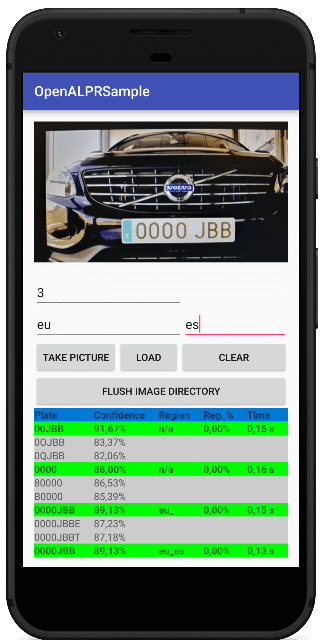
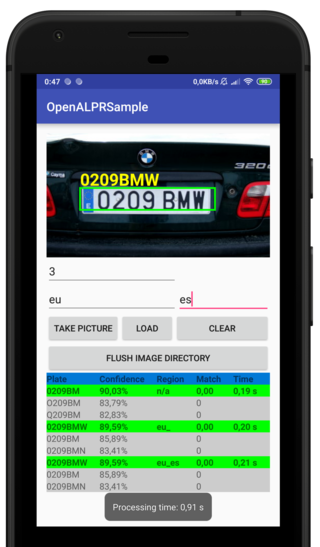
Minor improvements (recognition rectangle, processing time count, ...)

diff --git a/Sample/OpenALPRSample/app/src/main/java/com/sandro/openalprsample/MainActivity.java b/Sample/OpenALPRSample/app/src/main/java/com/sandro/openalprsample/MainActivity.java
@@ -6,9 +6,16 @@ import android.app.ProgressDialog;
 import android.content.Context;
 import android.content.Intent;
 import android.content.pm.PackageManager;
+import android.graphics.Bitmap;
 import android.graphics.BitmapFactory;
+import android.graphics.Canvas;
 import android.graphics.Color;
+import android.graphics.Paint;
+import android.graphics.Rect;
+import android.graphics.RectF;
 import android.graphics.Typeface;
+import android.graphics.drawable.BitmapDrawable;
+import android.graphics.drawable.Drawable;
 import android.net.Uri;
 import android.os.AsyncTask;
 import android.os.Bundle;
@@ -17,6 +24,7 @@ import android.provider.MediaStore;
 import android.support.v4.app.ActivityCompat;
 import android.support.v4.content.ContextCompat;
 import android.support.v7.app.AppCompatActivity;
+import android.transition.Explode;
 import android.util.Log;
 import android.view.View;
 import android.view.ViewGroup;
@@ -33,6 +41,7 @@ import com.squareup.picasso.Picasso;
 
 import org.openalpr.OpenALPR;
 import org.openalpr.model.Candidate;
+import org.openalpr.model.Coordinate;
 import org.openalpr.model.Result;
 import org.openalpr.model.Results;
 import org.openalpr.model.ResultsError;
@@ -59,7 +68,6 @@ public class MainActivity extends AppCompatActivity {
 
     private Context appCtx;
     private ImageView imageView;
-    private TextView resultTextView;
     private EditText txtCountry;
     private EditText txtRegion;
     private EditText txtCandidatesNum;
@@ -69,6 +77,7 @@ public class MainActivity extends AppCompatActivity {
     protected void onCreate(Bundle savedInstanceState) {
         super.onCreate(savedInstanceState);
         setContentView(R.layout.activity_main);
+        checkPermission();
 
         appCtx = this;
         ANDROID_DATA_DIR = this.getApplicationInfo().dataDir;
@@ -78,15 +87,12 @@ public class MainActivity extends AppCompatActivity {
         txtRegion = (EditText) findViewById(R.id.txtRegion);
 
         resultTable = (TableLayout) findViewById(R.id.resultTable);
-        resultTextView = (TextView) findViewById(R.id.textView);
         imageView = (ImageView) findViewById(R.id.imageView);
-
-        resultTextView.setText("Supported countries: empty, eu, us");
 
         findViewById(R.id.btnTakePicture).setOnClickListener(new View.OnClickListener() {
             @Override
             public void onClick(View view) {
-                checkPermission();
+                takePicture();
             }
         });
 
@@ -100,8 +106,6 @@ public class MainActivity extends AppCompatActivity {
         findViewById(R.id.btnClear).setOnClickListener(new View.OnClickListener() {
             @Override
             public void onClick(View view) {
-                resultTextView.setText("");
-                imageView.setVisibility(View.GONE);
                 resultTable.setVisibility(View.GONE);
                 int count = resultTable.getChildCount();
                 for (int i = 1; i < count; i++) {
@@ -132,26 +136,32 @@ public class MainActivity extends AppCompatActivity {
     @Override
     protected void onActivityResult(int requestCode, int resultCode, Intent data) {
         if ((requestCode == REQUEST_IMAGE || requestCode == REQUEST_FILE) && resultCode == Activity.RESULT_OK) {
+            final long startTime = System.currentTimeMillis();
+            final long[] endTime = new long[1];
             final ProgressDialog progress = ProgressDialog.show(this, "Loading", "Parsing result...", true);
             final String openAlprConfFile = ANDROID_DATA_DIR + File.separatorChar + "runtime_data" + File.separatorChar + "openalpr.conf";
             BitmapFactory.Options options = new BitmapFactory.Options();
             options.inSampleSize = 10;
 
             if (requestCode == REQUEST_FILE) {
-                if (data != null) {
+                if (data != null && data.getData() != null) {
                     String path = Environment.getExternalStorageDirectory().getPath() + "/" + data.getData().getLastPathSegment().split(":")[1];
                     imageFile = new File(path);
+                    Picasso.with(MainActivity.this).invalidate(imageFile);
                 }
             }
 
-            // Picasso requires permission.WRITE_EXTERNAL_STORAGE
-            Picasso.with(MainActivity.this).load(imageFile).fit().centerCrop().into(imageView);
-            resultTextView.setText("Processing");
+            final int[] x1 = { 0 };
+            final int[] x2 = { 0 };
+            final int[] y1 = { 0 };
+            final int[] y2 = { 0 };
+            final String[] plate = {""};
 
             AsyncTask.execute(new Runnable() {
+
                 @Override
                 public void run() {
-                    resultTable.setVisibility(View.VISIBLE);
+
                     int candidates = txtCandidatesNum.getText().toString().isEmpty()? 5 : Integer.parseInt((txtCandidatesNum.getText().toString()));
                     String result = OpenALPR.Factory.create(MainActivity.this, ANDROID_DATA_DIR).recognizeWithCountryRegionNConfig(txtCountry.getText().toString(), txtRegion.getText().toString(), imageFile.getAbsolutePath(), openAlprConfFile, candidates);
                     Log.d("OPEN ALPR", result);
@@ -161,75 +171,96 @@ public class MainActivity extends AppCompatActivity {
                         runOnUiThread(new Runnable() {
                             @Override
                             public void run() {
-                                imageView.setVisibility(View.VISIBLE);
+                                resultTable.setVisibility(View.VISIBLE);
                                 if (results == null || results.getResults() == null || results.getResults().size() == 0) {
                                     Toast.makeText(MainActivity.this, "It was not possible to detect the licence plate.", Toast.LENGTH_LONG).show();
-                                    resultTextView.setText("It was not possible to detect the licence plate.");
                                 } else {
+                                    endTime[0] = System.currentTimeMillis();
                                     TableLayout.LayoutParams rowLayoutParams = new TableLayout.LayoutParams(TableLayout.LayoutParams.FILL_PARENT, TableLayout.LayoutParams.WRAP_CONTENT);
                                     TableRow.LayoutParams cellLayoutParams = new TableRow.LayoutParams(TableRow.LayoutParams.WRAP_CONTENT, TableRow.LayoutParams.WRAP_CONTENT);
 
-                                    for(Result loResult : results.getResults()) {
+                                    List<Result> resultsList = results.getResults();
+                                    for(int i = 0; i < resultsList.size(); ++i) {
+                                        Result result = resultsList.get(i);
+
+                                        if (i == 0) { // save rectangle coordinates and plate of best result
+                                            x1[0] = result.getCoordinates().get(0).getX();
+                                            y1[0] = result.getCoordinates().get(0).getY();
+                                            x2[0] = result.getCoordinates().get(2).getX();
+                                            y2[0] = result.getCoordinates().get(2).getY();
+                                            plate[0] = result.getPlate();
+                                        }
+
                                         TableRow tableRow = new TableRow(appCtx);
                                         tableRow.setLayoutParams(rowLayoutParams);
 
-                                        if (loResult.getConfidence() < 60)
+                                        if (result.getConfidence() < 60)
                                             tableRow.setBackgroundColor(Color.RED);
-                                        else if (loResult.getConfidence() < 85)
+                                        else if (result.getConfidence() < 85)
                                             tableRow.setBackgroundColor(Color.YELLOW);
-                                        else if (loResult.getConfidence() >= 85)
+                                        else if (result.getConfidence() >= 85)
                                             tableRow.setBackgroundColor(Color.GREEN);
 
                                         TextView cellValue = new TextView(appCtx);
                                         cellValue.setTypeface(null, Typeface.BOLD);
-                                        cellValue.setText(loResult.getPlate());
+                                        cellValue.setText(result.getPlate());
                                         cellValue.setLayoutParams(cellLayoutParams);
                                         tableRow.addView(cellValue);
 
                                         cellValue = new TextView(appCtx);
                                         cellValue.setTypeface(null, Typeface.BOLD);
-                                        cellValue.setText(String.format("%.2f", loResult.getConfidence())+"%");
+                                        cellValue.setText(String.format("%.2f", result.getConfidence())+"%");
+                                        cellValue.setLayoutParams(cellLayoutParams);
+                                        tableRow.addView(cellValue);
+
+                                        String region = txtCountry.getText().toString()+"_"+txtRegion.getText().toString();
+                                        cellValue = new TextView(appCtx);
+                                        cellValue.setTypeface(null, Typeface.BOLD);
+                                        cellValue.setText(region.length() == 1? "n/a" : region);
                                         cellValue.setLayoutParams(cellLayoutParams);
                                         tableRow.addView(cellValue);
 
                                         cellValue = new TextView(appCtx);
                                         cellValue.setTypeface(null, Typeface.BOLD);
-                                        cellValue.setText(txtCountry.getText().toString()+"-"+txtRegion.getText().toString());
+                                        cellValue.setText(String.format("%.2f", result.getMatchesTemplate()));
                                         cellValue.setLayoutParams(cellLayoutParams);
                                         tableRow.addView(cellValue);
 
                                         cellValue = new TextView(appCtx);
                                         cellValue.setTypeface(null, Typeface.BOLD);
-                                        cellValue.setText(String.format("%.2f", loResult.getRegionConfidence())+"%");
-                                        cellValue.setLayoutParams(cellLayoutParams);
-                                        tableRow.addView(cellValue);
-
-                                        cellValue = new TextView(appCtx);
-                                        cellValue.setTypeface(null, Typeface.BOLD);
-                                        cellValue.setText(String.format("%.2f", ((loResult.getProcessingTimeMs() / 1000.0) % 60)) + " s");
+                                        cellValue.setText(String.format("%.2f", ((result.getProcessingTimeMs() / 1000.0) % 60)) + " s");
                                         cellValue.setLayoutParams(cellLayoutParams);
                                         tableRow.addView(cellValue);
 
                                         resultTable.addView(tableRow);
-                                        for (Candidate loCandidate : loResult.getCandidates()) {
+                                        List<Candidate> candidates = result.getCandidates();
+                                        for (int j = 1; j < candidates.size(); ++j) {
+                                            Candidate candidate = candidates.get(j);
                                             tableRow = new TableRow(appCtx);
                                             tableRow.setLayoutParams(rowLayoutParams);
                                             tableRow.setBackgroundColor(Color.LTGRAY);
 
                                             cellValue = new TextView(appCtx);
-                                            cellValue.setText(loCandidate.getPlate());
+                                            cellValue.setText(candidate.getPlate());
                                             cellValue.setLayoutParams(cellLayoutParams);
                                             tableRow.addView(cellValue, 0);
 
                                             cellValue = new TextView(appCtx);
-                                            cellValue.setText(String.format("%.2f", loCandidate.getConfidence())+"%");
+                                            cellValue.setText(String.format("%.2f", candidate.getConfidence())+"%");
                                             cellValue.setLayoutParams(cellLayoutParams);
                                             tableRow.addView(cellValue, 1);
+
+                                            tableRow.addView(new TextView(appCtx), 2);
+
+                                            cellValue = new TextView(appCtx);
+                                            cellValue.setText(String.valueOf(candidate.getMatchesTemplate()));
+                                            cellValue.setLayoutParams(cellLayoutParams);
+                                            tableRow.addView(cellValue, 3);
                                             resultTable.addView(tableRow);
                                         }
                                     }
                                     resultTable.invalidate();
-                                    resultTextView.setText("");
+                                    Toast.makeText(appCtx, "Processing time: " + String.format("%.2f", (((endTime[0]-startTime) / 1000.0) % 60)) + " s", Toast.LENGTH_LONG).show();
                                 }
                             }
                         });
@@ -240,12 +271,49 @@ public class MainActivity extends AppCompatActivity {
                         runOnUiThread(new Runnable() {
                             @Override
                             public void run() {
-                                resultTextView.setText(resultsError.getMsg());
+                                Toast.makeText(appCtx, resultsError.getMsg(), Toast.LENGTH_LONG).show();
                             }
                         });
                     }
 
                     progress.dismiss();
+
+                    runOnUiThread(new Runnable() {
+                        @Override
+                        public void run() {
+                            // Picasso requires permission.WRITE_EXTERNAL_STORAGE
+                            Picasso.with(MainActivity.this).load(imageFile).fit().centerCrop().into(imageView);
+                            if (imageView.getDrawable() != null) {
+                                Bitmap bitmap = ((BitmapDrawable) imageView.getDrawable()).getBitmap();
+                                Bitmap originalBitmap = BitmapFactory.decodeFile(imageFile.getAbsolutePath(), new BitmapFactory.Options());
+
+                                float viewWidth = bitmap.getWidth();
+                                float viewHeigth = bitmap.getHeight();
+                                float originalWidth = originalBitmap.getWidth();
+                                float originalHeigth = originalBitmap.getHeight();
+
+                                Canvas canvas = new Canvas(bitmap);
+                                Paint paint = new Paint(Paint.ANTI_ALIAS_FLAG);
+                                paint.setColor(Color.GREEN);
+                                paint.setStyle(Paint.Style.STROKE);
+                                paint.setStrokeWidth(8);
+
+                                // map rectangle coordinates to imageview
+                                int p1_x = (int)((x1[0] * viewWidth) / originalWidth);
+                                int p1_y = (int)((y1[0] * viewHeigth) / originalHeigth);
+                                int p2_x = (int)((x2[0] * viewWidth) / originalWidth);
+                                int p2_y = (int)((y2[0] * viewHeigth) / originalHeigth);
+                                canvas.drawRect(new Rect(p1_x, p1_y, p2_x, p2_y), paint);
+
+                                paint.setTextSize(75);
+                                paint.setStyle(Paint.Style.FILL);
+                                paint.setTypeface(Typeface.DEFAULT_BOLD);
+                                paint.setColor(Color.YELLOW);
+                                canvas.drawText(plate[0], p1_x, p1_y-10, paint);
+                                imageView.setImageBitmap(bitmap);
+                            }
+                        }
+                    });
                 }
             });
         }
@@ -260,8 +328,6 @@ public class MainActivity extends AppCompatActivity {
             Toast.makeText(this, "Storage access needed to manage the picture.", Toast.LENGTH_LONG).show();
             String[] params = permissions.toArray(new String[permissions.size()]);
             ActivityCompat.requestPermissions(this, params, STORAGE);
-        } else { // We already have permissions, so handle as normal
-            takePicture();
         }
     }
 
@@ -279,7 +345,6 @@ public class MainActivity extends AppCompatActivity {
                 Boolean storage = perms.get(Manifest.permission.WRITE_EXTERNAL_STORAGE) == PackageManager.PERMISSION_GRANTED;
                 if (storage) {
                     // permission was granted, yay!
-                    takePicture();
                 } else {
                     // Permission Denied
                     Toast.makeText(this, "Storage permission is needed to analyse the picture.", Toast.LENGTH_LONG).show();
@@ -297,8 +362,6 @@ public class MainActivity extends AppCompatActivity {
     }
 
     public void takePicture() {
-        resultTable.setVisibility(View.VISIBLE);
-
         // Generate the path for the next photo
         String name = dateToString(new Date(), "yyyy-MM-dd-hh-mm-ss");
         imageFile = new File(imgFolder, name + ".jpg");
@@ -322,4 +385,5 @@ public class MainActivity extends AppCompatActivity {
             Picasso.with(MainActivity.this).load(imageFile).fit().centerCrop().into(imageView);
         }
     }
+
 }
